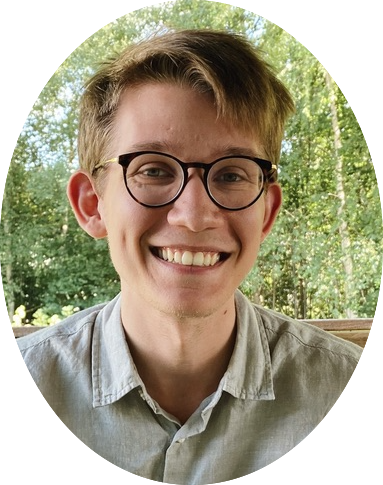
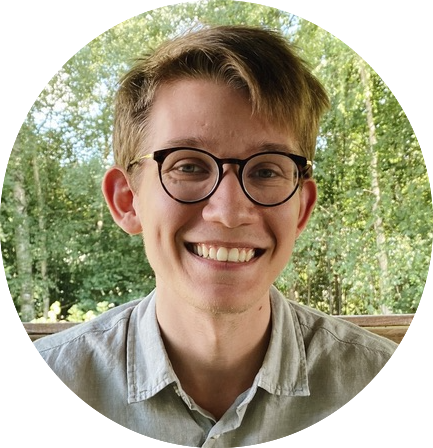
Big update

diff --git a/research.html b/research.html
@@ -14,8 +14,9 @@
     <script src="https://kit.fontawesome.com/d27465027e.js" crossorigin="anonymous"></script>
 </head>
 
-<body class="pagestyle">
-    <div class="menu" style="width: 650px; height: auto;">
+<body class="pagestyle" style="width: 650px; height: auto;">
+    <!-- Menu -->
+    <div class="menu">
         <p style="font-size: 18pt; display: flex; justify-content: space-evenly;">
             <a class="button" href="index.html">Home</a>
             <a class="button" href="research.html" style="text-decoration: underline;">Research</a>
@@ -25,10 +26,9 @@
     </div>
     <hr>
     <!-- Main block -->
-    <div class="block" style="width: 650px; height: auto;">
-        <h1>Research Projects</h1>
-        <h3>Master Project (2022)</h3>
-        <img class="researchimage" src="images/NGC474.jpg" alt="profile_picture" width="25%" height="100%">
+    <div class="block">
+        <p style="font-size: 24pt; font-weight: bold;">Research Projects</p>
+        <p style="font-size: 18pt; font-weight: bold;">Master Project (2022)</p>
         <p style="text-align: justify;">
             <b>Supervisor:</b> Florent Renaud<br><br>
             I run high resolution numerical simulations of two colliding galaxies
@@ -38,7 +38,7 @@
             <a class="buttonsmall" href="masterproject2022.html">[more...]</a>
         </p>
         <br>
-        <h3>Summer Research Project (2021)</h3>
+        <p style="font-size: 18pt; font-weight: bold;">Summer Research Project (2021)</p>
         <p style="text-align: justify;">
             <b>Supervisor:</b> Paul McMillan<br><br>
             In Gaia Early Data Release 3, a clear break in the angular momentum-vertical velocity
@@ -46,12 +46,12 @@
             a dynamical origin. I explore this possible origin by doing <i>N</i>-body simulations
             (with more than 3 million particles) of how a Milky Way-like galaxy evolves after a
             Sagittarius dwarf impact, using the RAMSES code. The project was done in
-            collaboration with Joss Bland-Hawthorn and Thor Tepper-García. I use a similar numerical set-up 
-            for the simulations, and the same code to generate initial conditions for a Milky Way-like 
-            galaxy as they use in Bland-Hawthorn & Tepper-García (2021). 
+            collaboration with Joss Bland-Hawthorn and Thor Tepper-García. I use a similar numerical set-up
+            for the simulations, and the same code to generate initial conditions for a Milky Way-like
+            galaxy as they use in Bland-Hawthorn & Tepper-García (2021).
         </p>
         <br>
-        <h3>Bachelor Project (2020)</h3>
+        <p style="font-size: 18pt; font-weight: bold;">Bachelor Project (2020)</p>
         <p style="text-align: justify;">
             <b>Title:</b> Capture of interstellar objects in the Solar system<br>
             <b>Supervisor:</b> Daohai Li<br>
@@ -60,12 +60,12 @@
             I determine the capture rate of interstellar objects in the Solar system
             and orbital features of captured objects. I also look into how interstellar
             objects are captured and the contribution each planet in the Solar system
-            has on the overall capture rate. <br>
+            has on the overall capture rate.
         </p>
     </div>
     <hr>
     <!-- End block -->
-    <div class="end" style="width: 650px; height: auto;">
-        <p style="text-align: left;">Copyright &#169; Jonathan Petersson 2021<span style="float: right;">Last updated: 2021-11-21</span></p>
+    <div class="end">
+        <p style="text-align: left;">Copyright &#169; Jonathan Petersson 2022<span style="float: right;">Last updated: 2022-02-06</span></p>
     </div>
 </body>

diff --git a/index.html b/index.html
@@ -10,13 +10,13 @@
     <!-- <link rel="icon" href="images/rocket_steelblue.png" type="image/png"> -->
     <!-- CSS -->
     <link rel="stylesheet" href="style.css">
-     <!-- Font Awesome icons -->
+    <!-- Font Awesome icons -->
     <script src="https://kit.fontawesome.com/d27465027e.js" crossorigin="anonymous"></script>
 </head>
 
-<body class="pagestyle">
+<body class="pagestyle" style="width: 650px; height: auto;">
     <!-- Menu -->
-    <div class="menu" style="width: 650px; height: auto;">
+    <div class="menu">
         <p style="font-size: 18pt; display: flex; justify-content: space-evenly;">
             <a class="button" href="index.html" style="text-decoration: underline;">Home</a>
             <a class="button" href="research.html">Research</a>
@@ -26,28 +26,32 @@
     </div>
     <hr>
     <!-- Main block -->
-    <div class="block" style="width: 650px; height: auto;">
-        <img class="right" src="images/profile_picture.png" alt="profile_picture" width="20%" height="100%">
-        <h1>Jonathan Petersson</h1>
+    <div class="block">
+        <p style="font-size: 24pt; font-weight: bold">
+            Jonathan Petersson
+            <img class="right" src="images/profile_picture.png" alt="profile_picture" width="25%" height="100%">
+        </p>
         <p>
-            Master student in Astrophysics at Lund Observatory
+            Master student in astrophysics at Lund Observatory working on star
+            formation in shell galaxies using numerical <i>N</i>-body + hydrodynaimcal
+            simulations.
         <p>
         <br>
-        <h3>Contact details:</h3>
         <p>
+            <b>Contact details:</b><br><br>
             Lund Observatory<br>
             Sölvegatan 27<br>
             223 62 Lund, Sweden<br><br>
-            jonathan.petersson.4450@student.lu.se<br><br>
-            <a href="https://www.linkedin.com/in/jonathan-petersson-66a516197" style="font-size: 24pt; color: white;"><i class="fab fa-linkedin"></i></a>
-            <a href="https://twitter.com/AstroJPetersson" style="font-size: 24pt; color: white;"><i class="fab fa-twitter-square"></i></a>
-            <a href="https://github.com/AstroJPetersson" style="font-size: 24pt; color: white;"><i class="fab fa-github-square"></i></a>
+            <a href="mailto:jonathan.petersson.4450@student.lu.se" style="font-size: 24pt; color: black;"><i class="fas fa-envelope"></i></a>
+            <a href="https://www.linkedin.com/in/jonathan-petersson-66a516197" style="font-size: 24pt; color: black;"><i class="fab fa-linkedin"></i></a>
+            <a href="https://twitter.com/AstroJPetersson" style="font-size: 24pt; color: black;"><i class="fab fa-twitter-square"></i></a>
+            <a href="https://github.com/AstroJPetersson" style="font-size: 24pt; color: black;"><i class="fab fa-github-square"></i></a>
         </p>
     </div>
     <hr>
     <!-- End block -->
-    <div class="end" style="width: 650px; height: auto;">
-        <p style="text-align: left;">Copyright &#169; Jonathan Petersson 2021<span style="float: right;">Last updated: 2021-11-21</span></p>
+    <div class="end">
+        <p style="text-align: left;">Copyright &#169; Jonathan Petersson 2022<span style="float: right;">Last updated: 2022-02-06</span></p>
     </div>
 </body>
 

diff --git a/style.css b/style.css
@@ -1,88 +1,53 @@
 /* CSS */
 .pagestyle{
-    background: linear-gradient(to bottom right, #003366 0%, #01796F 100%);
-    margin: 20px;
-    background-attachment: fixed;
+    background-color: #CFCFC4;
+    margin: auto;
+    padding-top: 10pt;
+    padding-bottom: 10pt;
+    font-size: 12pt;
 }
 .menu{
-    padding-left: 40px;
-    padding-right: 40px;
-    margin: auto;
     text-align: center;
-    background-color: #01796F;
-    color: white;
-    font-family: "Courier New";
-
-    border-style: outset;
-    border-width: 4px;
-    border-color: #01796F;
+    color: black;
+    font-family: "Gill Sans";
+    font-weight: bold;
 }
 .block{
-    padding: 40px;
-    margin: auto;
     text-align: left;
-    background-color: #003366;
-    color: white;
-    font-family: "Courier New";
-
-    border-style: outset;
-    border-width: 4px;
-    border-color: #003366;
+    color: black;
+    font-family: "Gill Sans";
 }
 .end{
-    padding-left: 40px;
-    padding-right: 40px;
-    margin: auto;
     text-align: center;
-    background-color: #808080;
-    color: white;
-    font-family: "Courier New";
-
-    border-style: outset;
-    border-width: 4px;
-    border-color: #808080;
+    color: black;
+    font-family: "Gill Sans";
 }
 .right{
     float: right;
-}
-.researchimage{
-    float: right;
-    padding-left: 5%;
-    padding-right: 5%;
+    margin: 18pt;
 }
 .button{
-    padding: 4px;
-    border-radius: 8px;
-    color: white;
+    color: black;
     text-decoration: none;
     transition-duration: 0.4s;
 }
 .button:hover{
-    background-color: white;
     color: black;
+    text-decoration: underline;
 }
 .buttonsmall{
-    padding: 0px;
-    border-radius: 0px;
-    color: white;
+    color: black;
     text-decoration: none;
     transition-duration: 0.4s;
 }
 .buttonsmall:hover{
-    background-color: white;
     color: black;
+    text-decoration: underline;
 }
 .link{
-    color: white;
+    color: black;
     text-decoration: underline;
 }
 hr{
-    display: block;
-    margin-top: 7px;
-    margin-bottom: 7px;
-    margin-left: auto;
-    margin-right: auto;
-    border-style: none;
-    border-width: 4px;
-    border-color: white;
+    border: 1px solid black;
 }

diff --git a/masterproject2022.html b/masterproject2022.html
@@ -14,8 +14,9 @@
     <script src="https://kit.fontawesome.com/d27465027e.js" crossorigin="anonymous"></script>
 </head>
 
-<body class="pagestyle">
-    <div class="menu" style="width: 650px; height: auto;">
+<body class="pagestyle" style="width: 650px; height: auto;">
+    <!-- Menu -->
+    <div class="menu">
         <p style="font-size: 18pt; display: flex; justify-content: space-evenly;">
             <a class="button" href="index.html">Home</a>
             <a class="button" href="research.html">Research</a>
@@ -27,9 +28,12 @@
     <!-- Main block -->
     <div class="block" style="width: 650px; height: auto;">
         <p>
-            <a class="button" href="research.html"><b><-Research</b></a>
+            <a class="button" href="research.html">
+                <i class="fas fa-arrow-left" style="font-size: 12pt;"></i>
+                <b>Research</b>
+            </a>
         </p>
-        <h1>Master Project (2022)</h1>
+        <p style="font-size: 24pt; font-weight: bold;">Master Project (2022)</p>
         <p style="text-align: justify;">
             I run high resolution numerical simulations of two colliding galaxies
             and their formation into a shell galaxy using the RAMSES code
@@ -49,6 +53,6 @@
     <hr>
     <!-- End block -->
     <div class="end" style="width: 650px; height: auto;">
-        <p style="text-align: left;">Copyright &#169; Jonathan Petersson 2021<span style="float: right;">Last updated: 2021-11-21</span></p>
+        <p style="text-align: left;">Copyright &#169; Jonathan Petersson 2022<span style="float: right;">Last updated: 2022-02-06</span></p>
     </div>
 </body>

diff --git a/other.html b/other.html
@@ -14,8 +14,9 @@
     <script src="https://kit.fontawesome.com/d27465027e.js" crossorigin="anonymous"></script>
 </head>
 
-<body class="pagestyle">
-    <div class="menu" style="width: 650px; height: auto;">
+<body class="pagestyle" style="width: 650px; height: auto;">
+    <!-- Menu -->
+    <div class="menu">
         <p style="font-size: 18pt; display: flex; justify-content: space-evenly;">
             <a class="button" href="index.html">Home</a>
             <a class="button" href="research.html">Research</a>
@@ -26,12 +27,11 @@
     <hr>
     <!-- Main block -->
     <div class="block" style="width: 650px; height: auto;">
-        <h2>Other</h2>
-        <p></p>
+        <p style="font-size: 24pt; font-weight: bold;">Other</p>
     </div>
     <hr>
     <!-- End block -->
     <div class="end" style="width:650px; height: auto;">
-        <p style="text-align: left;">Copyright &#169; Jonathan Petersson 2021<span style="float: right;">Last updated: 2021-11-21</span></p>
+        <p style="text-align: left;">Copyright &#169; Jonathan Petersson 2022<span style="float: right;">Last updated: 2022-02-06</span></p>
     </div>
 </body>

diff --git a/cv.html b/cv.html
@@ -14,9 +14,9 @@
     <script src="https://kit.fontawesome.com/d27465027e.js" crossorigin="anonymous"></script>
 </head>
 
-<body class="pagestyle">
+<body class="pagestyle" style="width: 650px; height: auto;">
     <!-- Menu -->
-    <div class="menu" style="width: 650px; height: auto;">
+    <div class="menu">
         <p style="font-size: 18pt; display: flex; justify-content: space-evenly;">
             <a class="button" href="index.html">Home</a>
             <a class="button" href="research.html">Research</a>
@@ -27,12 +27,11 @@
     <hr>
     <!-- Main block -->
     <div class="block" style="width: 650px; height: auto;">
-        <h2>CV</h2>
-        <p></p>
+        <p style="font-size: 24pt; font-weight: bold;">CV</p>
     </div>
     <hr>
     <!-- End block -->
     <div class="end" style="width: 650px; height: auto;">
-        <p style="text-align: left;">Copyright &#169; Jonathan Petersson 2021<span style="float: right;">Last updated: 2021-11-21</span></p>
+        <p style="text-align: left;">Copyright &#169; Jonathan Petersson 2022<span style="float: right;">Last updated: 2022-02-06</span></p>
     </div>
 </body>
